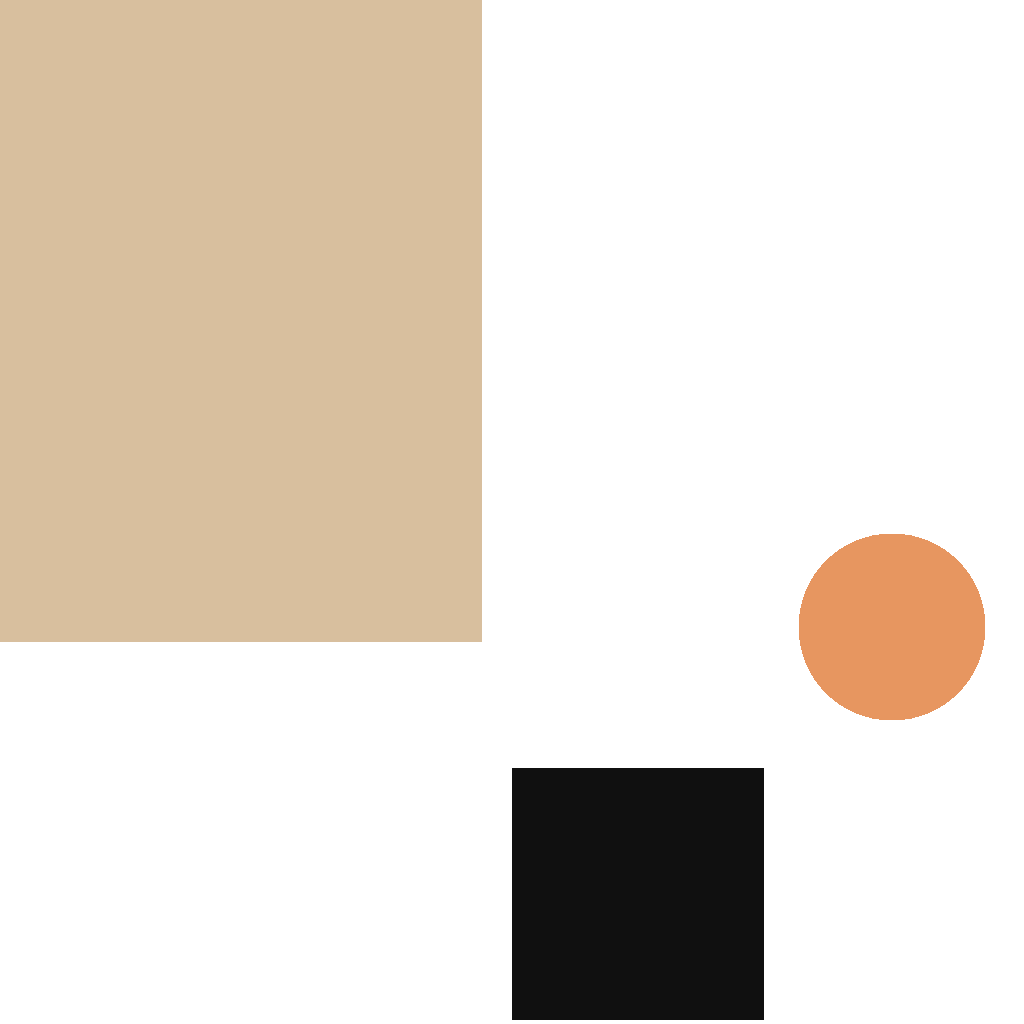
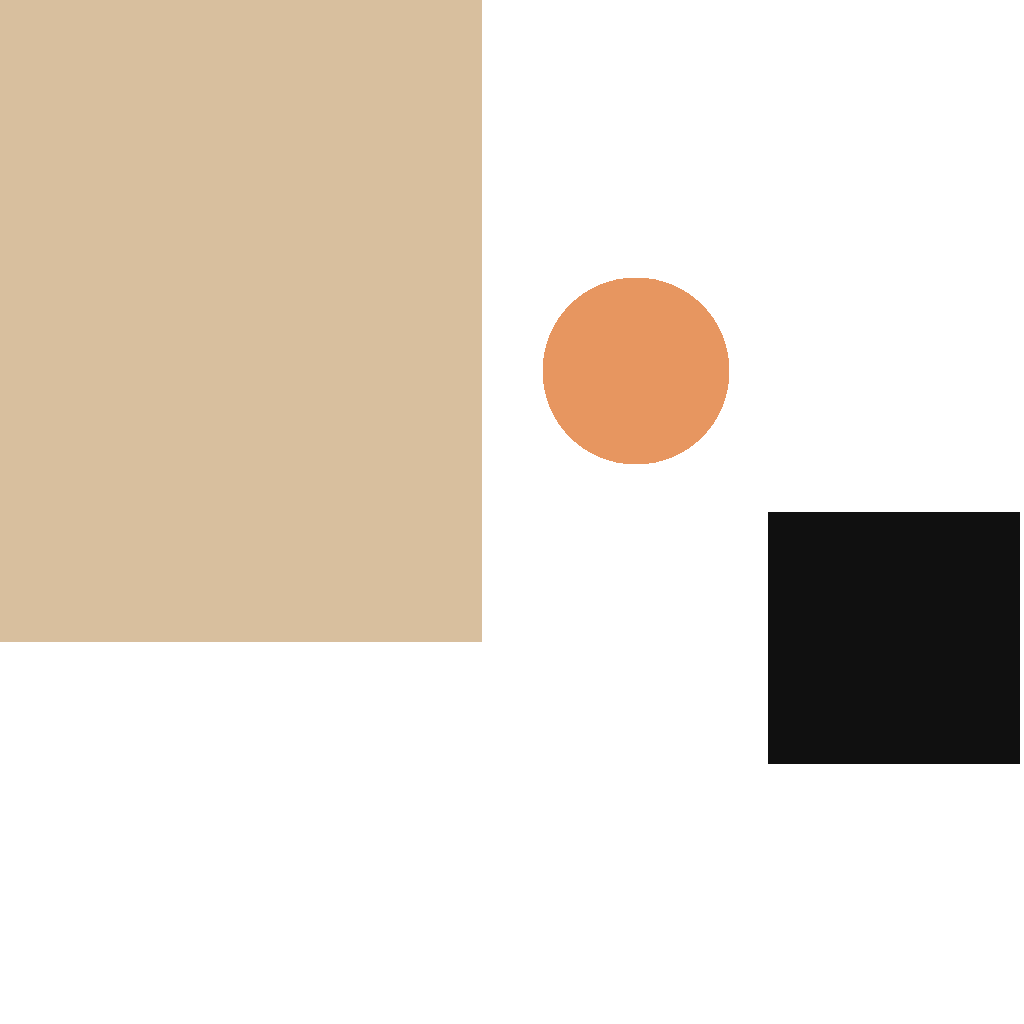
Push level designs

Changed region(s): [[0.75, 0.5, 1.0, 0.75], [0.5, 0.75, 0.75, 1.0], [0.5312, 0.25, 0.7188, 0.4688]]

diff --git a/matcha-adventure/scripts/c3runtime.js b/matcha-adventure/scripts/c3runtime.js
@@ -4557,6 +4557,7 @@ self.C3_GetObjectRefTable = function () {
 		C3.Behaviors.Flash,
 		C3.Behaviors.Sin,
 		C3.Plugins.TiledBg,
+		C3.Behaviors.Tween,
 		C3.Plugins.Particles,
 		C3.Plugins.Keyboard,
 		C3.Plugins.Touch,
@@ -4564,7 +4565,6 @@ self.C3_GetObjectRefTable = function () {
 		C3.Plugins.Text,
 		C3.Plugins.AJAX,
 		C3.Plugins.Json,
-		C3.Behaviors.Tween,
 		C3.Behaviors.Platform,
 		C3.Behaviors.Physics,
 		C3.Plugins.Audio,
@@ -4576,46 +4576,53 @@ self.C3_GetObjectRefTable = function () {
 		C3.Plugins.Sprite.Acts.SetMirrored,
 		C3.Plugins.Keyboard.Cnds.OnKey,
 		C3.Plugins.Touch.Cnds.OnTouchObject,
-		C3.Plugins.Audio.Acts.Play,
 		C3.Plugins.System.Acts.RestartLayout,
 		C3.Behaviors.Platform.Cnds.OnMove,
 		C3.Behaviors.Platform.Cnds.IsFalling,
 		C3.Plugins.Sprite.Acts.SetAnim,
 		C3.Behaviors.Platform.Cnds.OnStop,
 		C3.Behaviors.Platform.Cnds.OnJump,
+		C3.Plugins.Audio.Acts.Play,
 		C3.Behaviors.Platform.Cnds.OnLand,
 		C3.Behaviors.Platform.Cnds.IsMoving,
 		C3.Plugins.System.Cnds.OnLayoutStart,
 		C3.Plugins.Sprite.Acts.SetOpacity,
 		C3.Behaviors.Tween.Acts.TweenOneProperty,
-		C3.Plugins.Sprite.Cnds.OnCollision,
 		C3.Plugins.System.Acts.SetBoolVar,
+		C3.Plugins.Sprite.Acts.SetVisible,
+		C3.Plugins.Sprite.Acts.SetBoolInstanceVar,
+		C3.Plugins.Sprite.Cnds.OnCollision,
+		C3.Plugins.Sprite.Cnds.IsBoolInstanceVarSet,
 		C3.Plugins.Sprite.Acts.AddChild,
 		C3.Plugins.Sprite.Acts.Destroy,
 		C3.Plugins.Sprite.Acts.Spawn,
+		C3.Behaviors.Platform.Cnds.IsOnFloor,
 		C3.Behaviors.Sin.Acts.SetEnabled,
 		C3.ScriptsInEvents.Level0event_Event18_Act2,
 		C3.Behaviors.Flash.Acts.StopFlashing,
 		C3.Behaviors.Flash.Acts.Flash,
 		C3.Plugins.System.Acts.Wait,
-		C3.Plugins.Sprite.Cnds.CompareInstanceVar,
 		C3.Plugins.Sprite.Acts.SetInstanceVar,
+		C3.Plugins.Sprite.Cnds.CompareInstanceVar,
 		C3.Plugins.Sprite.Cnds.IsOverlapping,
 		C3.Plugins.System.Cnds.CompareBoolVar,
 		C3.Plugins.System.Acts.NextPrevLayout,
 		C3.Behaviors.Sin.Cnds.IsEnabled,
+		C3.ScriptsInEvents.Level1event_Event18_Act2,
+		C3.ScriptsInEvents.Level2event_Event18_Act2,
+		C3.Plugins.Sprite.Exps.Y,
+		C3.ScriptsInEvents.Level3event_Event18_Act2,
 		C3.Plugins.System.Acts.GoToLayout,
 		C3.Plugins.AJAX.Acts.RequestFile,
 		C3.Plugins.Spritefont2.Acts.SetOpacity,
-		C3.Plugins.Sprite.Acts.SetVisible,
 		C3.Plugins.Sprite.Acts.SetCollisions,
 		C3.Plugins.AJAX.Cnds.OnComplete,
 		C3.Plugins.Json.Acts.Parse,
 		C3.Plugins.AJAX.Exps.LastData,
 		C3.Plugins.Json.Exps.Get,
 		C3.Plugins.Spritefont2.Acts.SetVisible,
-		C3.Plugins.Spritefont2.Acts.SetBoolInstanceVar,
-		C3.Plugins.Spritefont2.Cnds.IsBoolInstanceVarSet
+		C3.Plugins.Spritefont2.Cnds.IsBoolInstanceVarSet,
+		C3.Plugins.Spritefont2.Acts.SetBoolInstanceVar
 	];
 };
 self.C3_JsPropNameTable = [
@@ -4628,6 +4635,7 @@ self.C3_JsPropNameTable = [
 	{SpikyPlatformLeft: 0},
 	{SpikyPlatformRight: 0},
 	{FlatPlatformLeft: 0},
+	{Tween: 0},
 	{FlatPlatformMiddle: 0},
 	{FlatPlatformRight: 0},
 	{InteractButton: 0},
@@ -4652,31 +4660,45 @@ self.C3_JsPropNameTable = [
 	{TitleText: 0},
 	{TitleText2: 0},
 	{MenuTapText: 0},
+	{EpilogueText2: 0},
 	{AJAX: 0},
 	{SettingsJSON: 0},
 	{BG_Level1: 0},
 	{MenuBackground: 0},
 	{Door: 0},
-	{Tween: 0},
 	{GreenLockSign: 0},
+	{Enabled: 0},
 	{GreenKey: 0},
 	{GreenKeyItem: 0},
 	{Ground0: 0},
 	{Ground1: 0},
+	{VerticalSineMoving: 0},
+	{MovedUp: 0},
+	{VerticalTweenerUp: 0},
+	{VerticalTweenerDown: 0},
 	{Health: 0},
 	{Invincible: 0},
+	{isInvincible: 0},
 	{Platform: 0},
 	{Physics: 0},
 	{Player: 0},
 	{PlayerTitle: 0},
 	{Sound: 0},
 	{Fade: 0},
+	{Reusable: 0},
+	{Used: 0},
+	{GreenLever1: 0},
+	{ObjectAltar: 0},
+	{GreenBorder: 0},
 	{Tiles: 0},
 	{Buttons: 0},
 	{Anchor: 0},
 	{Hearts: 0},
 	{HasGreenKey: 0},
-	{NextLevelName: 0}
+	{NextLevelName: 0},
+	{HasInteracted: 0},
+	{NextLevelName2: 0},
+	{allowNext: 0}
 ];
 }
 
@@ -4778,12 +4800,12 @@ function or(l, r)
 
 self.C3_ExpressionFuncs = [
 		() => "Control And UI",
-		() => 0,
-		() => "",
 		() => "Animation Movement Handler",
 		() => "Walk",
 		() => "Idle",
 		() => "Jump",
+		() => 0,
+		() => "",
 		() => "Gameplay Logic",
 		() => 100,
 		() => "FadeIn",
@@ -4800,7 +4822,33 @@ self.C3_ExpressionFuncs = [
 		},
 		() => "Inactive",
 		() => "FadeOut",
+		() => "LeverOn",
 		() => "Enemies",
+		() => "Control And UI2",
+		() => "Animation Movement Handler2",
+		() => "Gameplay Logic2",
+		() => "LeverOff",
+		() => "Enemies2",
+		() => "Control And UI3",
+		() => "Animation Movement Handler3",
+		() => "Gameplay Logic3",
+		p => {
+			const n0 = p._GetNode(0);
+			return () => (n0.ExpObject() - 400);
+		},
+		p => {
+			const n0 = p._GetNode(0);
+			return () => (n0.ExpObject() + 400);
+		},
+		() => "Enemies3",
+		() => "Control And UI4",
+		() => "Animation Movement Handler4",
+		() => "Gameplay Logic4",
+		() => "Enemies4",
+		() => "Control And UI5",
+		() => "Animation Movement Handler5",
+		() => "Gameplay Logic5",
+		() => -5,
 		() => "settings",
 		p => {
 			const f0 = p._GetNode(0).GetBoundMethod();

diff --git a/matcha-adventure/index.html b/matcha-adventure/index.html
@@ -8,10 +8,7 @@
 <meta name="generator" content="Scirra Construct">
 	<meta name="author" content="capedhorse">
 	<link rel="manifest" href="appmanifest.json">
-	<link rel="apple-touch-icon" sizes="128x128" href="icons/icon-128.png">
-	<link rel="apple-touch-icon" sizes="256x256" href="icons/icon-256.png">
-	<link rel="apple-touch-icon" sizes="512x512" href="icons/icon-512.png">
-	<link rel="icon" type="image/png" href="icons/icon-512.png">
+
 
 <link rel="stylesheet" href="style.css">
 

diff --git a/matcha-adventure/scripts/project/scriptsInEvents.js b/matcha-adventure/scripts/project/scriptsInEvents.js
@@ -6,6 +6,21 @@ const scriptsInEvents = {
 	async Level0event_Event18_Act2(runtime, localVars)
 	{
 		console.log("Collide with patrol");
+	},
+
+	async Level1event_Event18_Act2(runtime, localVars)
+	{
+		console.log("Collide with patrol");
+	},
+
+	async Level2event_Event18_Act2(runtime, localVars)
+	{
+		console.log("Collide with patrol");
+	},
+
+	async Level3event_Event18_Act2(runtime, localVars)
+	{
+		console.log("Collide with patrol");
 	}
 
 };
